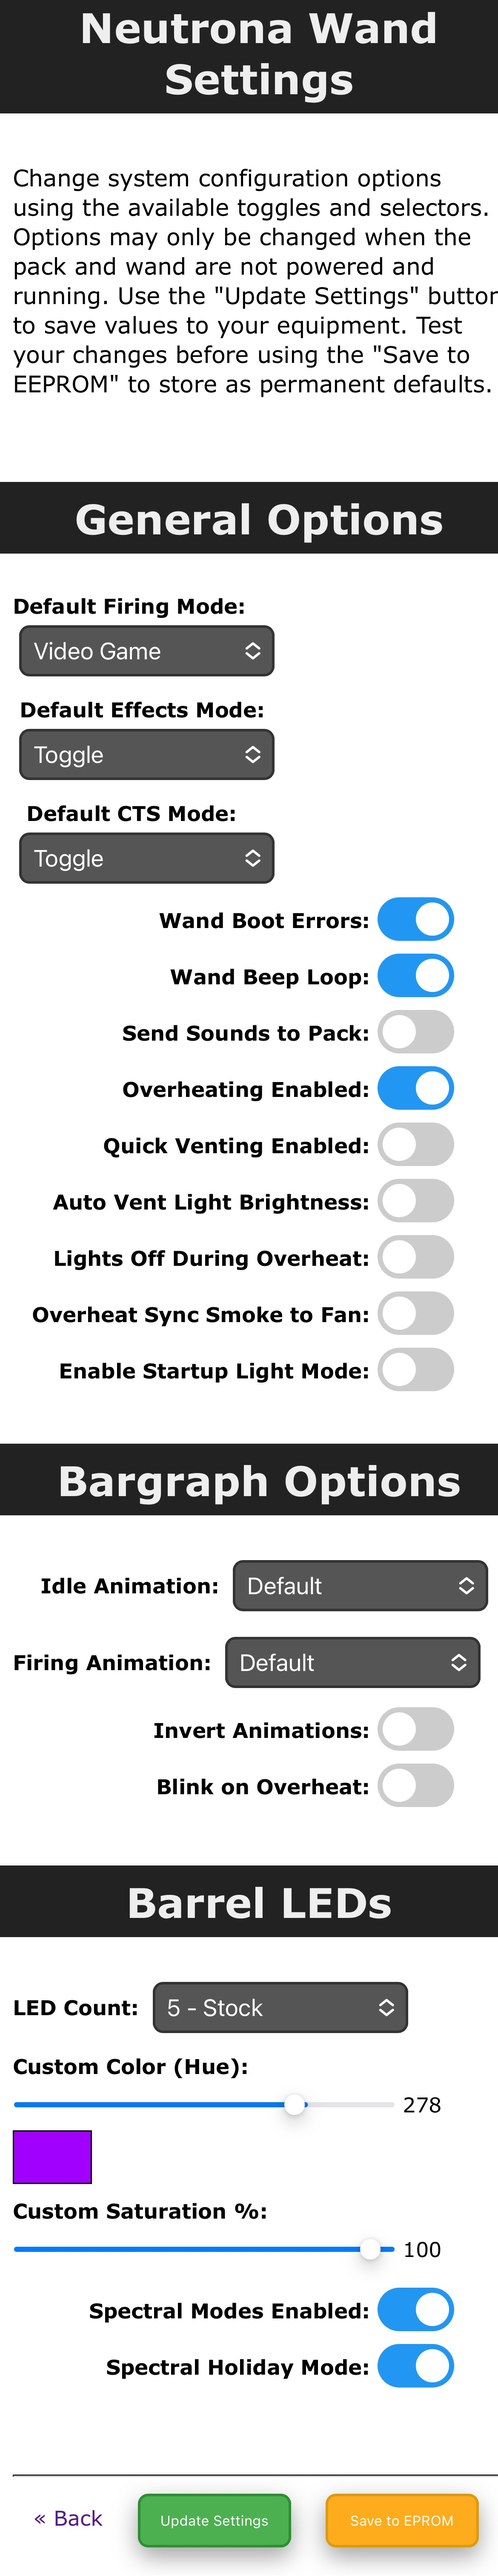
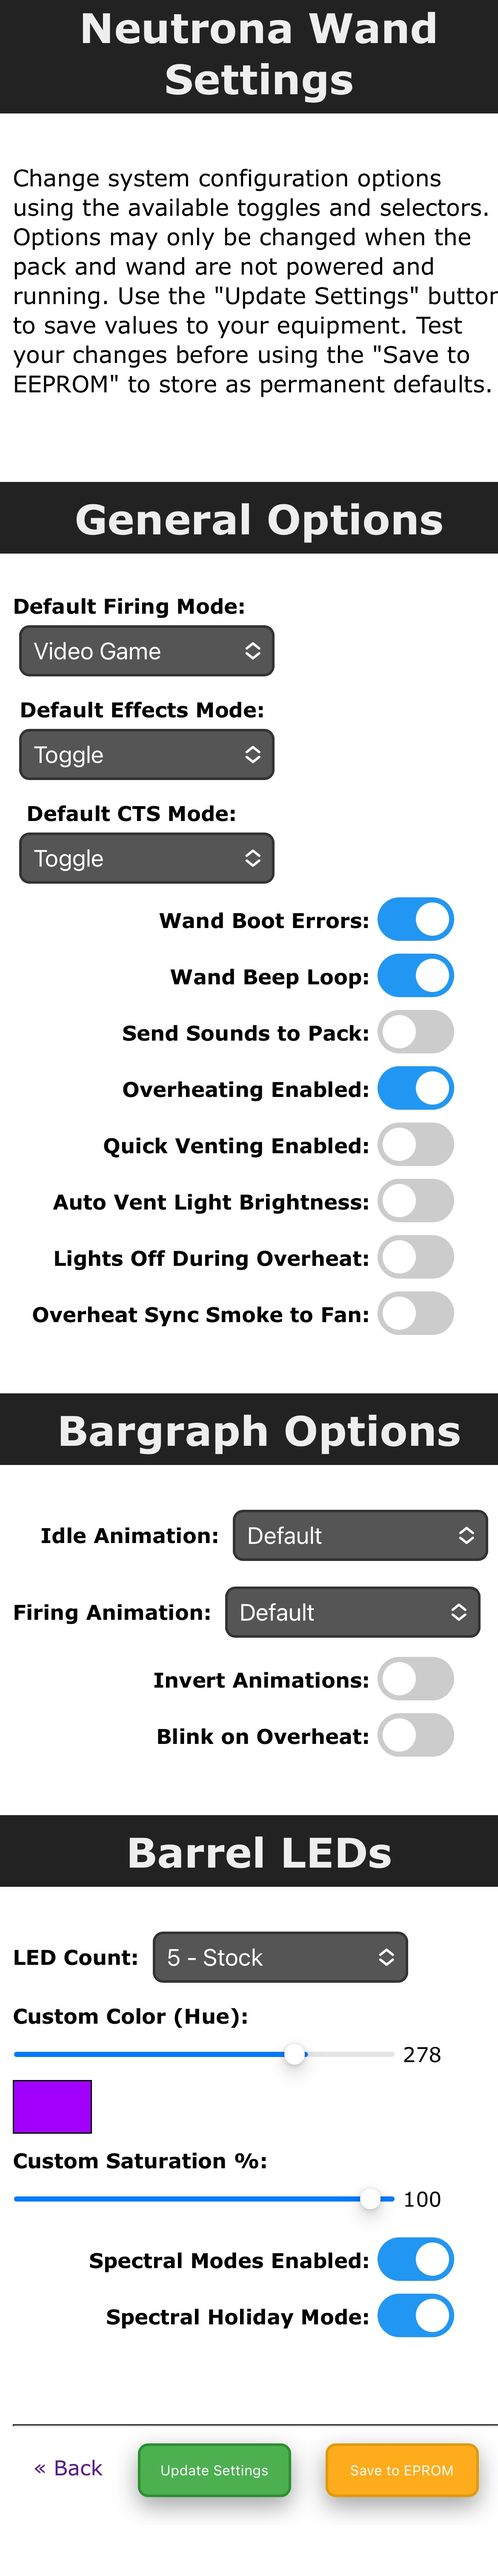
Remove option from wand prefs

Changed region(s): [[0.0, 0.498, 1.0, 0.996], [0.0615, 0.9338, 0.2154, 0.9649]]

diff --git a/source/Attenuator/WandSettings.h b/source/Attenuator/WandSettings.h
@@ -127,13 +127,6 @@ const char WAND_SETTINGS_page[] PROGMEM = R"=====(
         <span class="slider round"></span>
       </label>
     </div>
-    <div class="setting">
-      <b class="labelSwitch">Enable Startup Light Mode:</b>
-      <label class="switch">
-        <input id="demoLightMode" name="demoLightMode" type="checkbox">
-        <span class="slider round"></span>
-      </label>
-    </div>
   </div>
 
   <h1>Bargraph Options</h1>
